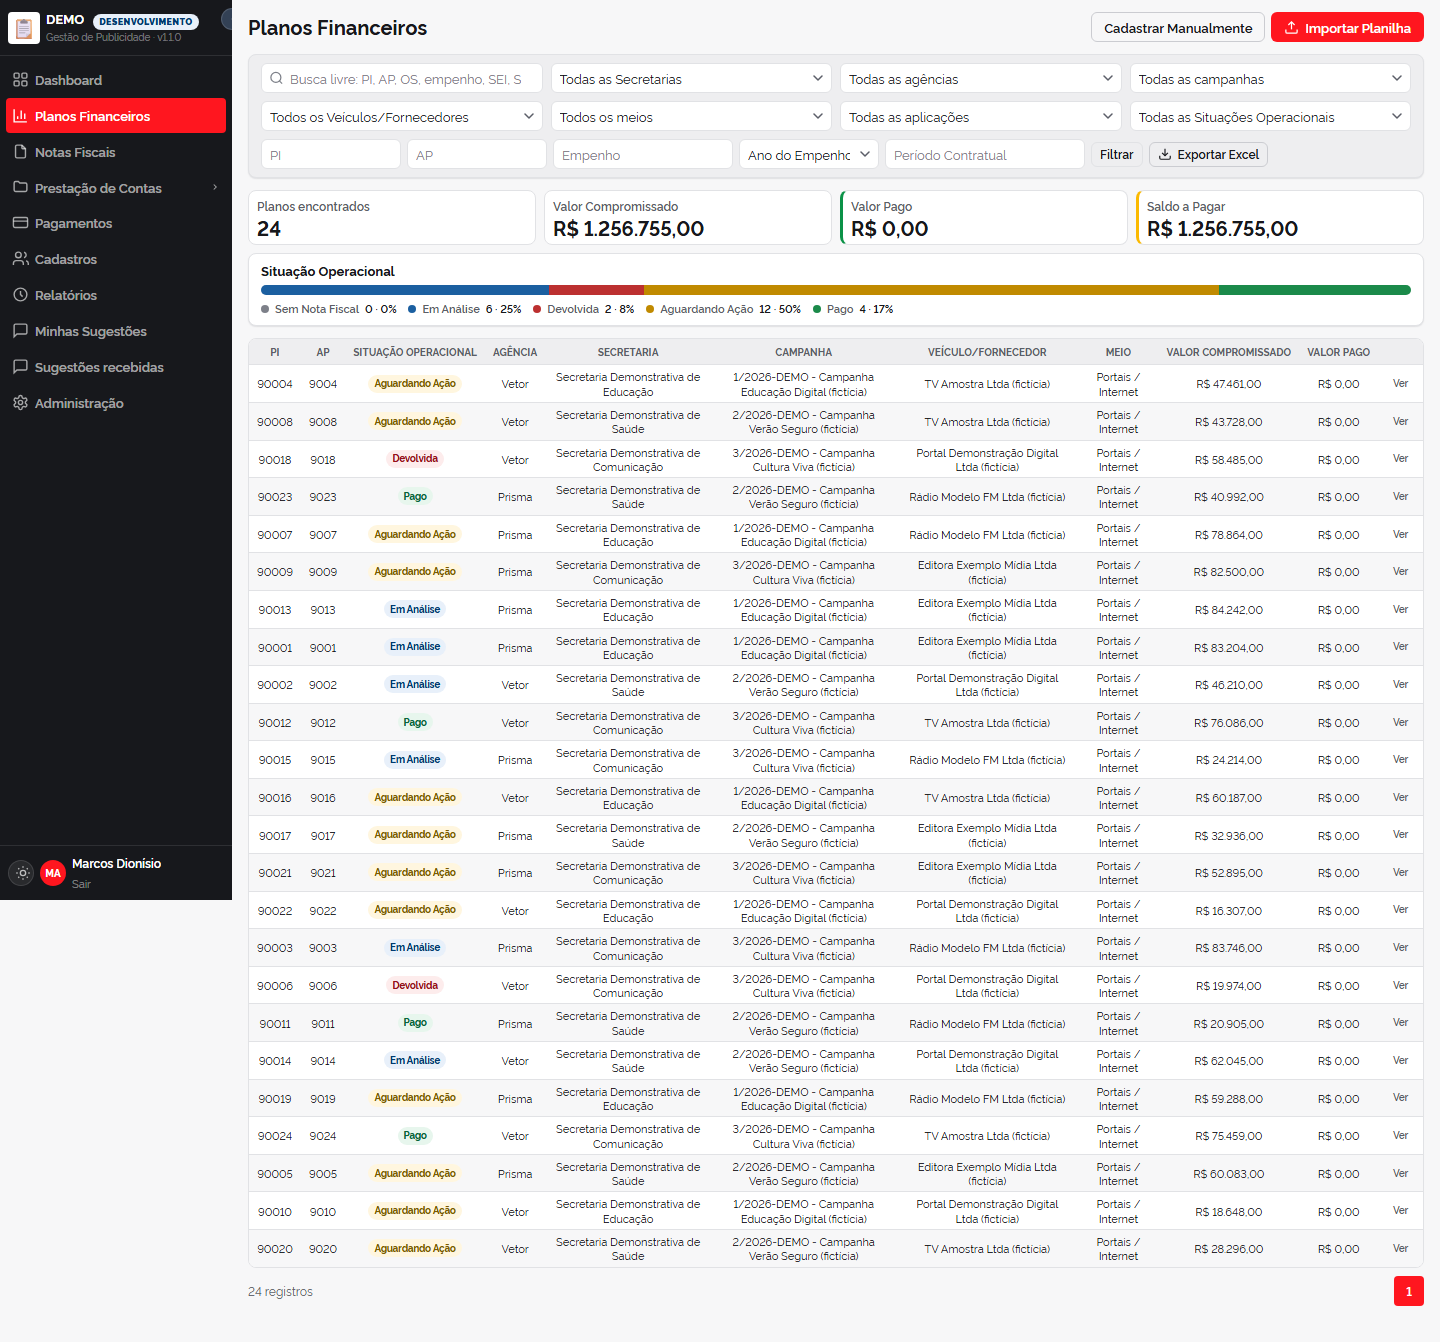
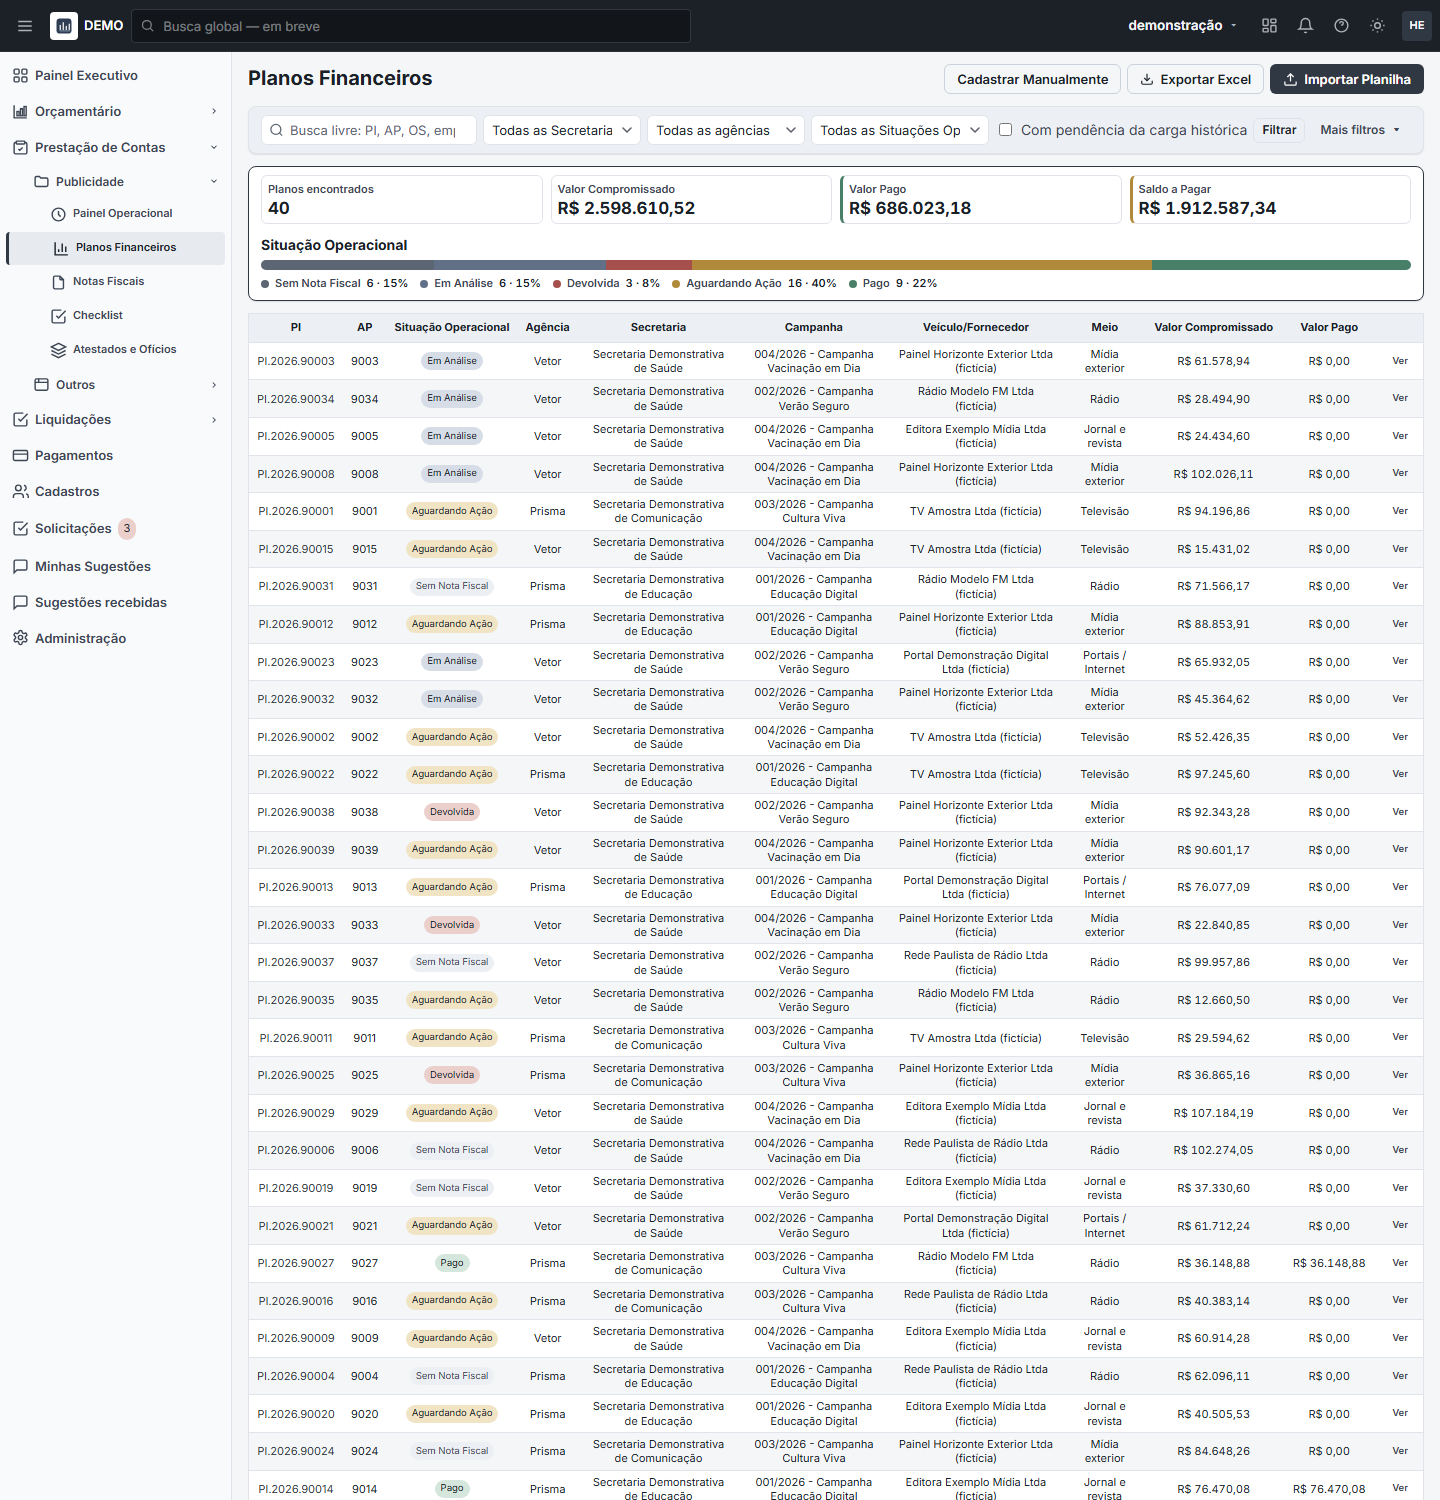
Atualiza o case study: ciclo orçamentário e financeiro completo e telas novas
README reescrito com a evolução do sistema (orçamento, REINF, transparência,
caminho de volta, complemento de pagamento, carga histórica) e capturas novas,
geradas num ambiente de demonstração com dados 100% fictícios.

diff --git a/README.md b/README.md
@@ -1,16 +1,18 @@
-# Sistema de Gestão de Contratos de Publicidade
+# Sistema de Gestão de Contratos de Publicidade e Execução Orçamentária
 
 ## Case Study
 
-Este projeto documenta a concepção e o desenvolvimento de um sistema para gestão do ciclo financeiro, documental e operacional de contratos de publicidade em um órgão público estadual.
+Este projeto documenta a concepção e o desenvolvimento de um sistema para gestão do ciclo orçamentário, financeiro, documental e operacional de contratos de publicidade em um órgão público estadual.
 
 O objetivo deste repositório é apresentar a arquitetura da solução, as decisões de produto, as regras de negócio e os principais desafios enfrentados durante o desenvolvimento. O código-fonte não é disponibilizado.
+
+> **Atualização (novembro/2026).** O que começou como o controle das notas fiscais de publicidade cresceu para o ciclo completo: do orçamento ao pagamento, com declaração de retenções, transparência e caminho de volta controlado. O sistema está em produção e em uso pela equipe desde outubro de 2026. A seção [Evolução](#evolução-desde-a-primeira-versão) resume o que mudou.
 
 ## Contexto
 
 O processo era integralmente controlado por planilhas eletrônicas.
 
-Planos financeiros, notas fiscais, checklists de conformidade, atestados, ofícios e pagamentos eram administrados manualmente, distribuídos em diversos arquivos independentes, sem integração, rastreabilidade ou regras automatizadas.
+Planos financeiros, notas fiscais, checklists de conformidade, atestados, ofícios, empenhos, reservas e pagamentos eram administrados manualmente, distribuídos em diversos arquivos independentes, sem integração, rastreabilidade ou regras automatizadas.
 
 Além da complexidade operacional, o processo precisava atender requisitos típicos da administração pública:
 
@@ -27,13 +29,24 @@ O desafio não era apenas informatizar um processo existente, mas transformar um
 
 Este projeto foi conduzido a partir da modelagem do processo de negócio.
 
-Antes da implementação, foram mapeadas todas as etapas operacionais, identificadas as regras de negócio, definidos os fluxos, estados, exceções, permissões, indicadores e critérios de auditoria.
+Antes da implementação, foram mapeadas as etapas operacionais, identificadas as regras de negócio, definidos os fluxos, estados, exceções, permissões, indicadores e critérios de auditoria. As regras foram validadas com a área **uma a uma**, antes de virarem código: nenhuma regra de negócio entrou no sistema sem confirmação explícita de quem a executa no dia a dia.
 
-A implementação utilizou ferramentas de desenvolvimento assistido por inteligência artificial como aceleradoras do processo de engenharia.
+Outro princípio: **fidelidade ao processo real**. Onde a planilha da equipe fazia algo de um jeito, o sistema primeiro reproduz esse jeito; só depois propõe melhorias, e sempre com aprovação.
 
-A IA foi empregada como ferramenta de desenvolvimento, enquanto todas as decisões relacionadas à arquitetura, modelagem, regras de negócio, experiência do usuário e validação funcional permaneceram orientadas pelo conhecimento do domínio e pela evolução contínua do produto.
+A implementação utilizou ferramentas de desenvolvimento assistido por inteligência artificial como aceleradoras do processo de engenharia. A IA foi empregada como ferramenta de desenvolvimento, enquanto todas as decisões relacionadas à arquitetura, modelagem, regras de negócio, experiência do usuário e validação funcional permaneceram orientadas pelo conhecimento do domínio e pela evolução contínua do produto.
 
 Mais do que demonstrar o desenvolvimento de um software, este projeto procura ilustrar uma forma de trabalho baseada na combinação entre análise de processos, engenharia de produto e utilização estratégica de inteligência artificial para acelerar a construção de soluções complexas.
+
+## Evolução desde a primeira versão
+
+| Antes | Agora |
+|---|---|
+| Controle das notas fiscais de publicidade | Ciclo completo: orçamento, planos, notas, análise, atestados, liquidação, pagamento, REINF e transparência |
+| Alteração com aprovação | Alteração com aprovação **e caminho de volta**: cada etapa (ordem bancária, programação de desembolso, assinatura, atestado, análise) pode ser desfeita, de trás para a frente, com aprovação do coordenador do módulo responsável |
+| Pagamento único por documento | **Complemento de pagamento**: corrige uma retenção de imposto feita a maior, sem mexer no documento original nem no valor do plano |
+| Dados novos apenas | **Carga histórica** das planilhas de vários anos, em duas camadas: a cópia fiel do original e a camada operacional |
+| Painéis de publicidade | Painéis **Executivo** e **Operacional do Orçamentário**, com a cascata dotação → saldo disponível e conferência automática dos totais |
+| Validação da nota contra o plano | Validação, **aviso sem bloqueio** quando a nota nova diverge do que a planilha histórica dizia, e detecção de duplicidade |
 
 ## Principais funcionalidades
 
@@ -42,6 +55,8 @@ Mais do que demonstrar o desenvolvimento de um software, este projeto procura il
 O sistema acompanha integralmente o fluxo de execução dos contratos:
 
 ```
+Orçamento (dotação, reserva, empenho)
+        ↓
 Plano Financeiro
         ↓
 Nota Fiscal
@@ -50,10 +65,26 @@ Checklist de Conformidade
         ↓
 Atestado ou Ofício
         ↓
-Pagamento
+Programação de Desembolso
+        ↓
+Ordem Bancária (pagamento)
+        ↓
+REINF · Transparência
 ```
 
 Cada documento permanece vinculado ao mesmo processo durante todo o ciclo de vida.
+
+![Painel Executivo](screenshots/02_painel_executivo.png)
+
+*Painel Executivo: a cascata orçamentária, o contrato de publicidade e a prestação de contas num só lugar.*
+
+### Orçamento e saldo disponível
+
+Dotações, notas de crédito, reservas e empenhos são lançados com seus movimentos (original, reforço, anulação) e o saldo disponível é calculado pelo sistema, do orçamento da unidade à unidade gestora. O painel mostra o selo **"Confere"** quando a conta fecha, e avisa onde há diferença.
+
+![Painel Operacional do Orçamentário](screenshots/08_orcamento_painel_operacional.png)
+
+*Painel Operacional do Orçamentário: dotação inicial, ajustes, compromissos e saldo disponível, com os valores da dotação e do crédito.*
 
 ### Validação automática de conformidade
 
@@ -66,105 +97,113 @@ São verificadas, entre outras informações:
 - Campanha
 - Empenho
 - Fornecedor
-- Valores
+- Valores e retenções
 - Aplicação
 - Identificadores do processo
 
-Divergências impedem a aprovação da análise.
+Divergências impedem a aprovação da análise. Quando a nota é nova e o plano veio de uma planilha histórica, a diferença com o que a planilha dizia aparece como **aviso**, sem bloquear, e fica registrada se o analista decidir seguir.
+
+![Checklist de conformidade](screenshots/20_checklist_analise.png)
+
+*Análise da prestação de contas: o plano ao lado, o checklist de documentos abaixo.*
 
 ### Controle de SLA
 
 O sistema acompanha automaticamente o prazo entre o recebimento da Nota Fiscal e a assinatura do Atestado.
 
-Os indicadores são separados entre:
+Os indicadores são separados entre a Secretaria de Comunicação e as demais Secretarias; cada grupo tem metas próprias de atendimento e classificação automática por faixas de SLA.
 
-- Secretaria de Comunicação
-- Demais Secretarias
+![Controle de Notas Fiscais](screenshots/04_notas_fiscais.png)
 
-Cada grupo possui metas próprias de atendimento e classificação automática por faixas de SLA.
+*Controle de Notas Fiscais: SLA por grupo e concentração de vencimentos.*
 
 ### Gestão automática de vencimentos
 
 Datas de vencimento são recalculadas automaticamente considerando:
 
 - finais de semana;
-- feriados cadastrados;
+- feriados cadastrados (inclusive mudanças por decreto, que reprocessam as notas afetadas);
 - regras específicas do processo.
 
 ### Emissão de documentos institucionais
 
-O sistema gera automaticamente:
+O sistema gera automaticamente Atestados e Ofícios, em PDF e em texto pronto para o processo eletrônico, a partir de modelos institucionais parametrizados pelos dados do processo. As notas são reunidas em **lotes** (mesma agência, empenho e vencimento) e o sistema indica o que está completo, parcial ou aguardando análise.
 
-- Atestados;
-- Ofícios.
+![Lotes a emitir](screenshots/07_lotes_a_emitir.png)
 
-Todos os documentos são produzidos em PDF utilizando modelos institucionais parametrizados pelos dados do processo.
+![Atestados e Ofícios](screenshots/06_atestados_oficios.png)
+
+### Caminho de volta controlado
+
+Errar faz parte; o que importa é corrigir sem apagar o passado. Cada etapa pode ser desfeita **de trás para a frente**, por um pedido que o coordenador do módulo responsável aprova ou rejeita, e tudo fica no histórico. Quando o erro é uma retenção de imposto feita a maior, o **complemento de pagamento** paga a diferença sem alterar o documento original.
+
+![Atestado com complemento e caminho de volta](screenshots/19_atestado_complemento_e_caminho_de_volta.png)
+
+![Solicitações pendentes](screenshots/21_solicitacoes_pendentes.png)
+
+### Rastreabilidade de ponta a ponta
+
+Cada nota tem a sua linha do tempo: recebimento, checklist, ofício ou atestado, assinatura e pagamento. Toda correção gera uma nova versão do registro e preserva a anterior, com autor, justificativa e valores antes e depois.
+
+![Nota Fiscal com o ciclo completo](screenshots/16_nota_fiscal_detalhe.png)
+
+![Correção aprovada no histórico](screenshots/17_nota_fiscal_correcao_aprovada.png)
+
+### Liquidações, REINF e Transparência
+
+A programação de desembolso, a ordem bancária e a declaração das retenções (REINF) saem dos mesmos dados do pagamento: o relatório mensal que a equipe montava à mão passou a ser gerado e exportado pelo sistema, conferido contra o relatório anterior. A tela de Transparência confronta o que foi pago com o portal público.
+
+![REINF](screenshots/11_reinf.png)
+
+![Transparência](screenshots/12_transparencia.png)
 
 ### Importação de planilhas
 
-Planilhas Excel podem ser importadas para o sistema.
+Planilhas Excel podem ser importadas para o sistema. As mesmas regras utilizadas na entrada manual são aplicadas durante a importação, evitando tratamentos diferentes entre processos automatizados e operações realizadas pelo usuário.
 
-As mesmas regras utilizadas na entrada manual são aplicadas durante a importação, evitando tratamentos diferentes entre processos automatizados e operações realizadas pelo usuário.
+A carga das planilhas históricas de vários anos usa duas camadas: o dado **original**, preservado sem alteração, e o dado **operacional**, que o sistema usa e corrige. É o que permite mostrar, mais tarde, o que a planilha dizia e o que mudou.
 
 ### Dashboards operacionais
 
-O sistema fornece indicadores para acompanhamento de:
+O sistema fornece indicadores para acompanhamento de produtividade, situação operacional, pagamentos, SLA, distribuição financeira e pendências. Gráficos e indicadores são integrados por filtros.
 
-- produtividade;
-- situação operacional;
-- pagamentos;
-- SLA;
-- distribuição financeira;
-- pendências.
+![Painel Operacional de Publicidade](screenshots/03_painel_publicidade.png)
 
-Todos os gráficos e indicadores são integrados por filtros cruzados.
+![Planos Financeiros](screenshots/05_planos_financeiros.png)
 
 ## Decisões de engenharia
 
 ### Auditoria como requisito estrutural
 
-A auditoria foi concebida como parte da arquitetura do sistema.
-
-Todos os registros financeiros possuem histórico completo de alterações, preservando rastreabilidade e trilha de auditoria.
+A auditoria foi concebida como parte da arquitetura do sistema. Todos os registros financeiros possuem histórico completo de alterações, preservando rastreabilidade e trilha de auditoria.
 
 ### Alterações críticas controladas
 
-Campos sensíveis não podem ser alterados diretamente.
-
-Qualquer modificação gera uma Solicitação de Alteração que percorre um fluxo próprio de aprovação, registrando:
-
-- solicitante;
-- aprovador;
-- justificativa;
-- histórico completo da operação.
+Campos sensíveis não podem ser alterados diretamente. Qualquer modificação gera uma Solicitação de Alteração que percorre um fluxo próprio de aprovação, registrando solicitante, aprovador, justificativa e histórico completo da operação. Ninguém aprova o próprio pedido, e a autoridade de aprovação segue o módulo do dado.
 
 ### Regras de negócio centralizadas
 
-As regras responsáveis por cálculos, validações e classificações permanecem isoladas da interface.
+As regras responsáveis por cálculos, validações e classificações permanecem isoladas da interface. Isso permite reutilização entre telas, importação de planilhas, geração de documentos, dashboards e validações futuras.
 
-Isso permite reutilização entre:
+### Desempenho medido, não presumido
 
-- telas;
-- importação de planilhas;
-- geração de documentos;
-- dashboards;
-- validações futuras.
+Em produção, o uso real revelou gargalos que os testes não mostraram. Uma consulta que montava um filtro com dezenas de milhares de pares de valores chegou a travar o servidor por mais de 30 minutos; foi reescrita como agregação. O planejador do banco gastava mais de um segundo por consulta com otimização antecipada ligada, que foi desativada. Relatórios que levavam 16 segundos passaram a 4 segundos a frio e menos de 1 segundo em cache, com o cache aquecido por tarefa agendada. Um teste de carga com usuários simulados, com tempo de espera entre ações, acompanhou cada mudança.
+
+### Qualidade
+
+Mais de 600 testes automatizados cobrem as regras de negócio, as telas e os comandos de manutenção de dados. Correções em dados de produção sempre começam por uma **simulação** que mostra o que seria alterado; só depois de conferida é que se grava, com backup e registro de auditoria.
 
 ### Design System próprio
 
-Toda a interface foi construída sobre um Design System baseado em Design Tokens (CSS Custom Properties).
-
-Essa abordagem garante consistência visual entre todos os módulos sem dependência de frameworks CSS de terceiros.
+Toda a interface foi construída sobre um Design System baseado em Design Tokens (CSS Custom Properties), com tema claro e escuro. Essa abordagem garante consistência visual entre todos os módulos sem dependência de frameworks CSS de terceiros.
 
 ### Infraestrutura única
 
-O mesmo artefato Docker é utilizado nos ambientes de:
+O mesmo artefato Docker é utilizado nos ambientes de desenvolvimento, homologação e produção. As diferenças entre ambientes são tratadas exclusivamente por configuração.
 
-- desenvolvimento;
-- homologação;
-- produção.
+### Ambiente de demonstração reproduzível
 
-As diferenças entre ambientes são tratadas exclusivamente por configuração.
+As telas deste repositório saem de um ambiente de demonstração com **banco próprio e dados totalmente fictícios**, gerados por um comando com semente fixa. Quando o sistema muda de forma relevante, basta recriar o ambiente e refazer as capturas (também automáticas): as imagens deste case sempre refletem a versão atual, sem expor nenhum dado institucional.
 
 ## Arquitetura
 
@@ -187,7 +226,7 @@ As diferenças entre ambientes são tratadas exclusivamente por configuração.
                      PostgreSQL      Redis
 ```
 
-A infraestrutura utiliza Docker Compose para orquestração dos serviços, comunicação por rede interna entre containers e renovação automática de certificados TLS através do Let's Encrypt.
+A infraestrutura utiliza Docker Compose para orquestração dos serviços, comunicação por rede interna entre containers e renovação automática de certificados TLS através do Let's Encrypt. O Redis guarda o cache dos painéis, aquecido por tarefa agendada.
 
 ## Stack tecnológica
 
@@ -202,6 +241,7 @@ A infraestrutura utiliza Docker Compose para orquestração dos serviços, comun
 - Let's Encrypt
 - HTML
 - CSS (Design System próprio)
+- JavaScript (HTMX e Chart.js)
 
 ## O que este projeto demonstra
 
@@ -212,15 +252,3 @@ O foco esteve na compreensão do processo, na modelagem das regras operacionais 
 ## Imagens
 
 As telas apresentadas utilizam exclusivamente dados fictícios. Nenhuma informação institucional ou processo administrativo real é exibido neste repositório.
-
-![Login](screenshots/01_login.png)
-
-![Dashboard](screenshots/02_dashboard.png)
-
-![Notas Fiscais — Painel de SLA e contagem regressiva](screenshots/03_notas_fiscais_sla.png)
-
-![Detalhe da Nota Fiscal — histórico de auditoria](screenshots/04_nota_fiscal_detalhe.png)
-
-![Planos Financeiros](screenshots/05_planos_financeiros.png)
-
-![Atestados e Ofícios](screenshots/07_atestados_consultar.png)
